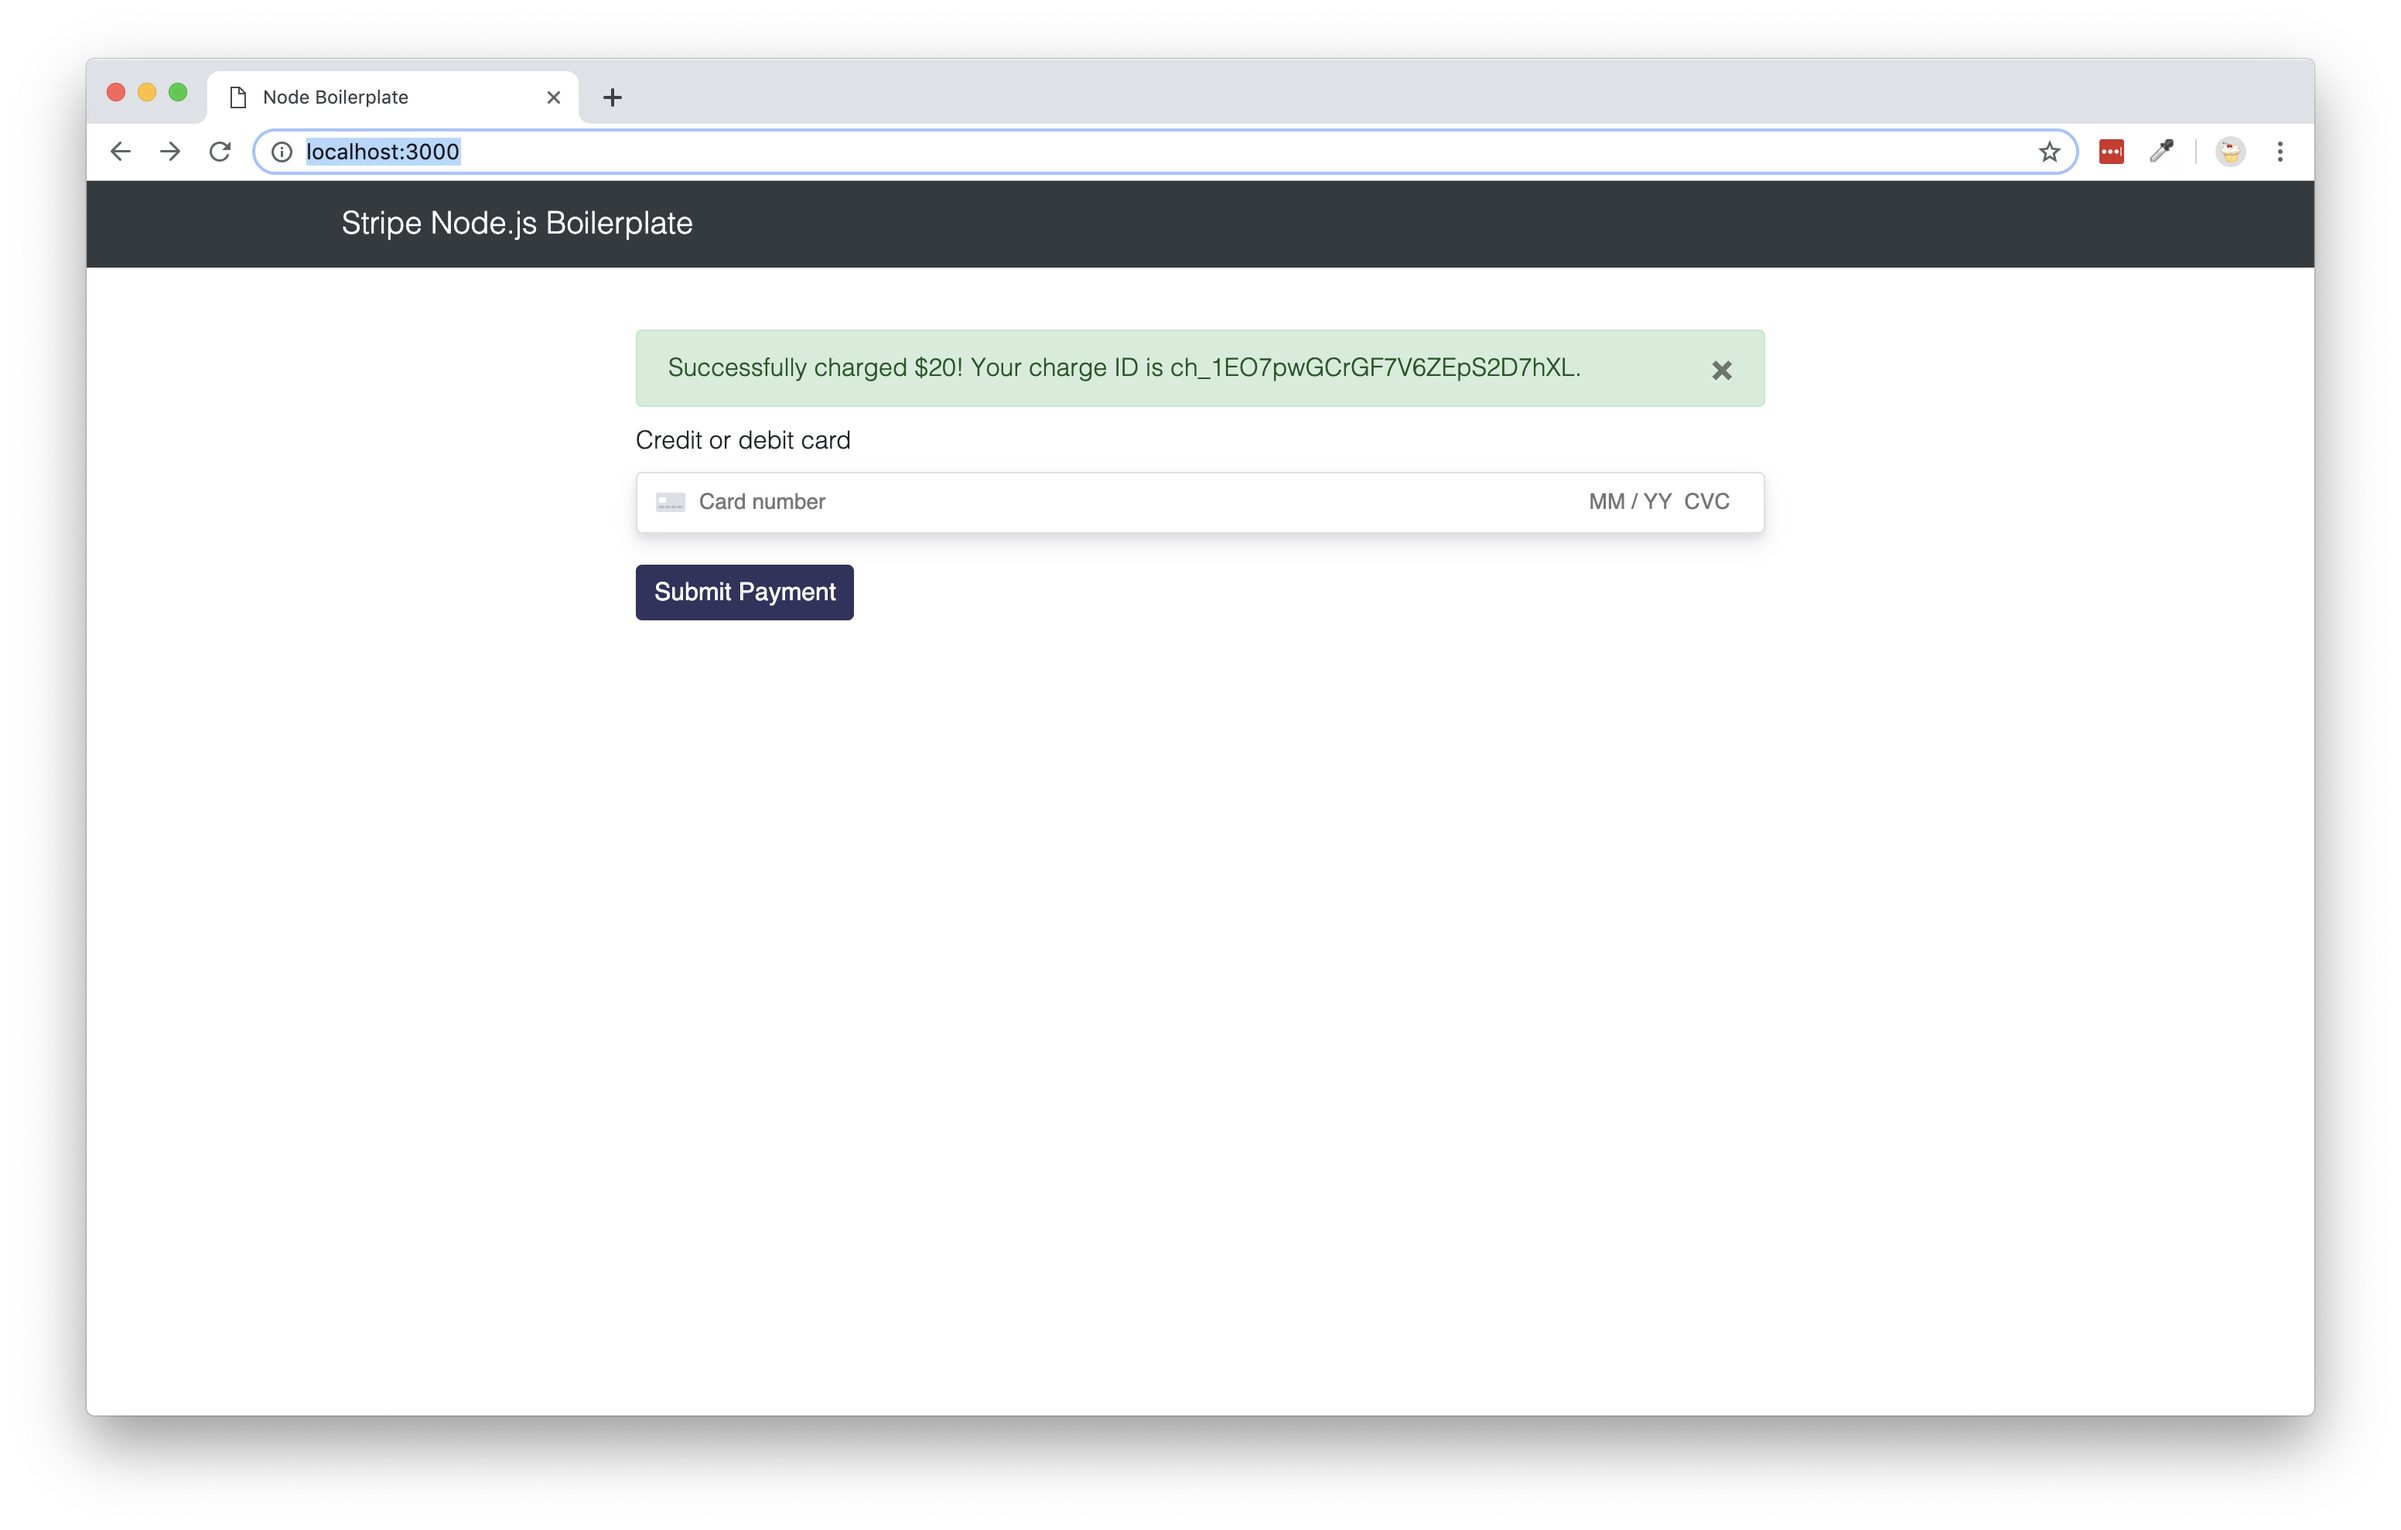
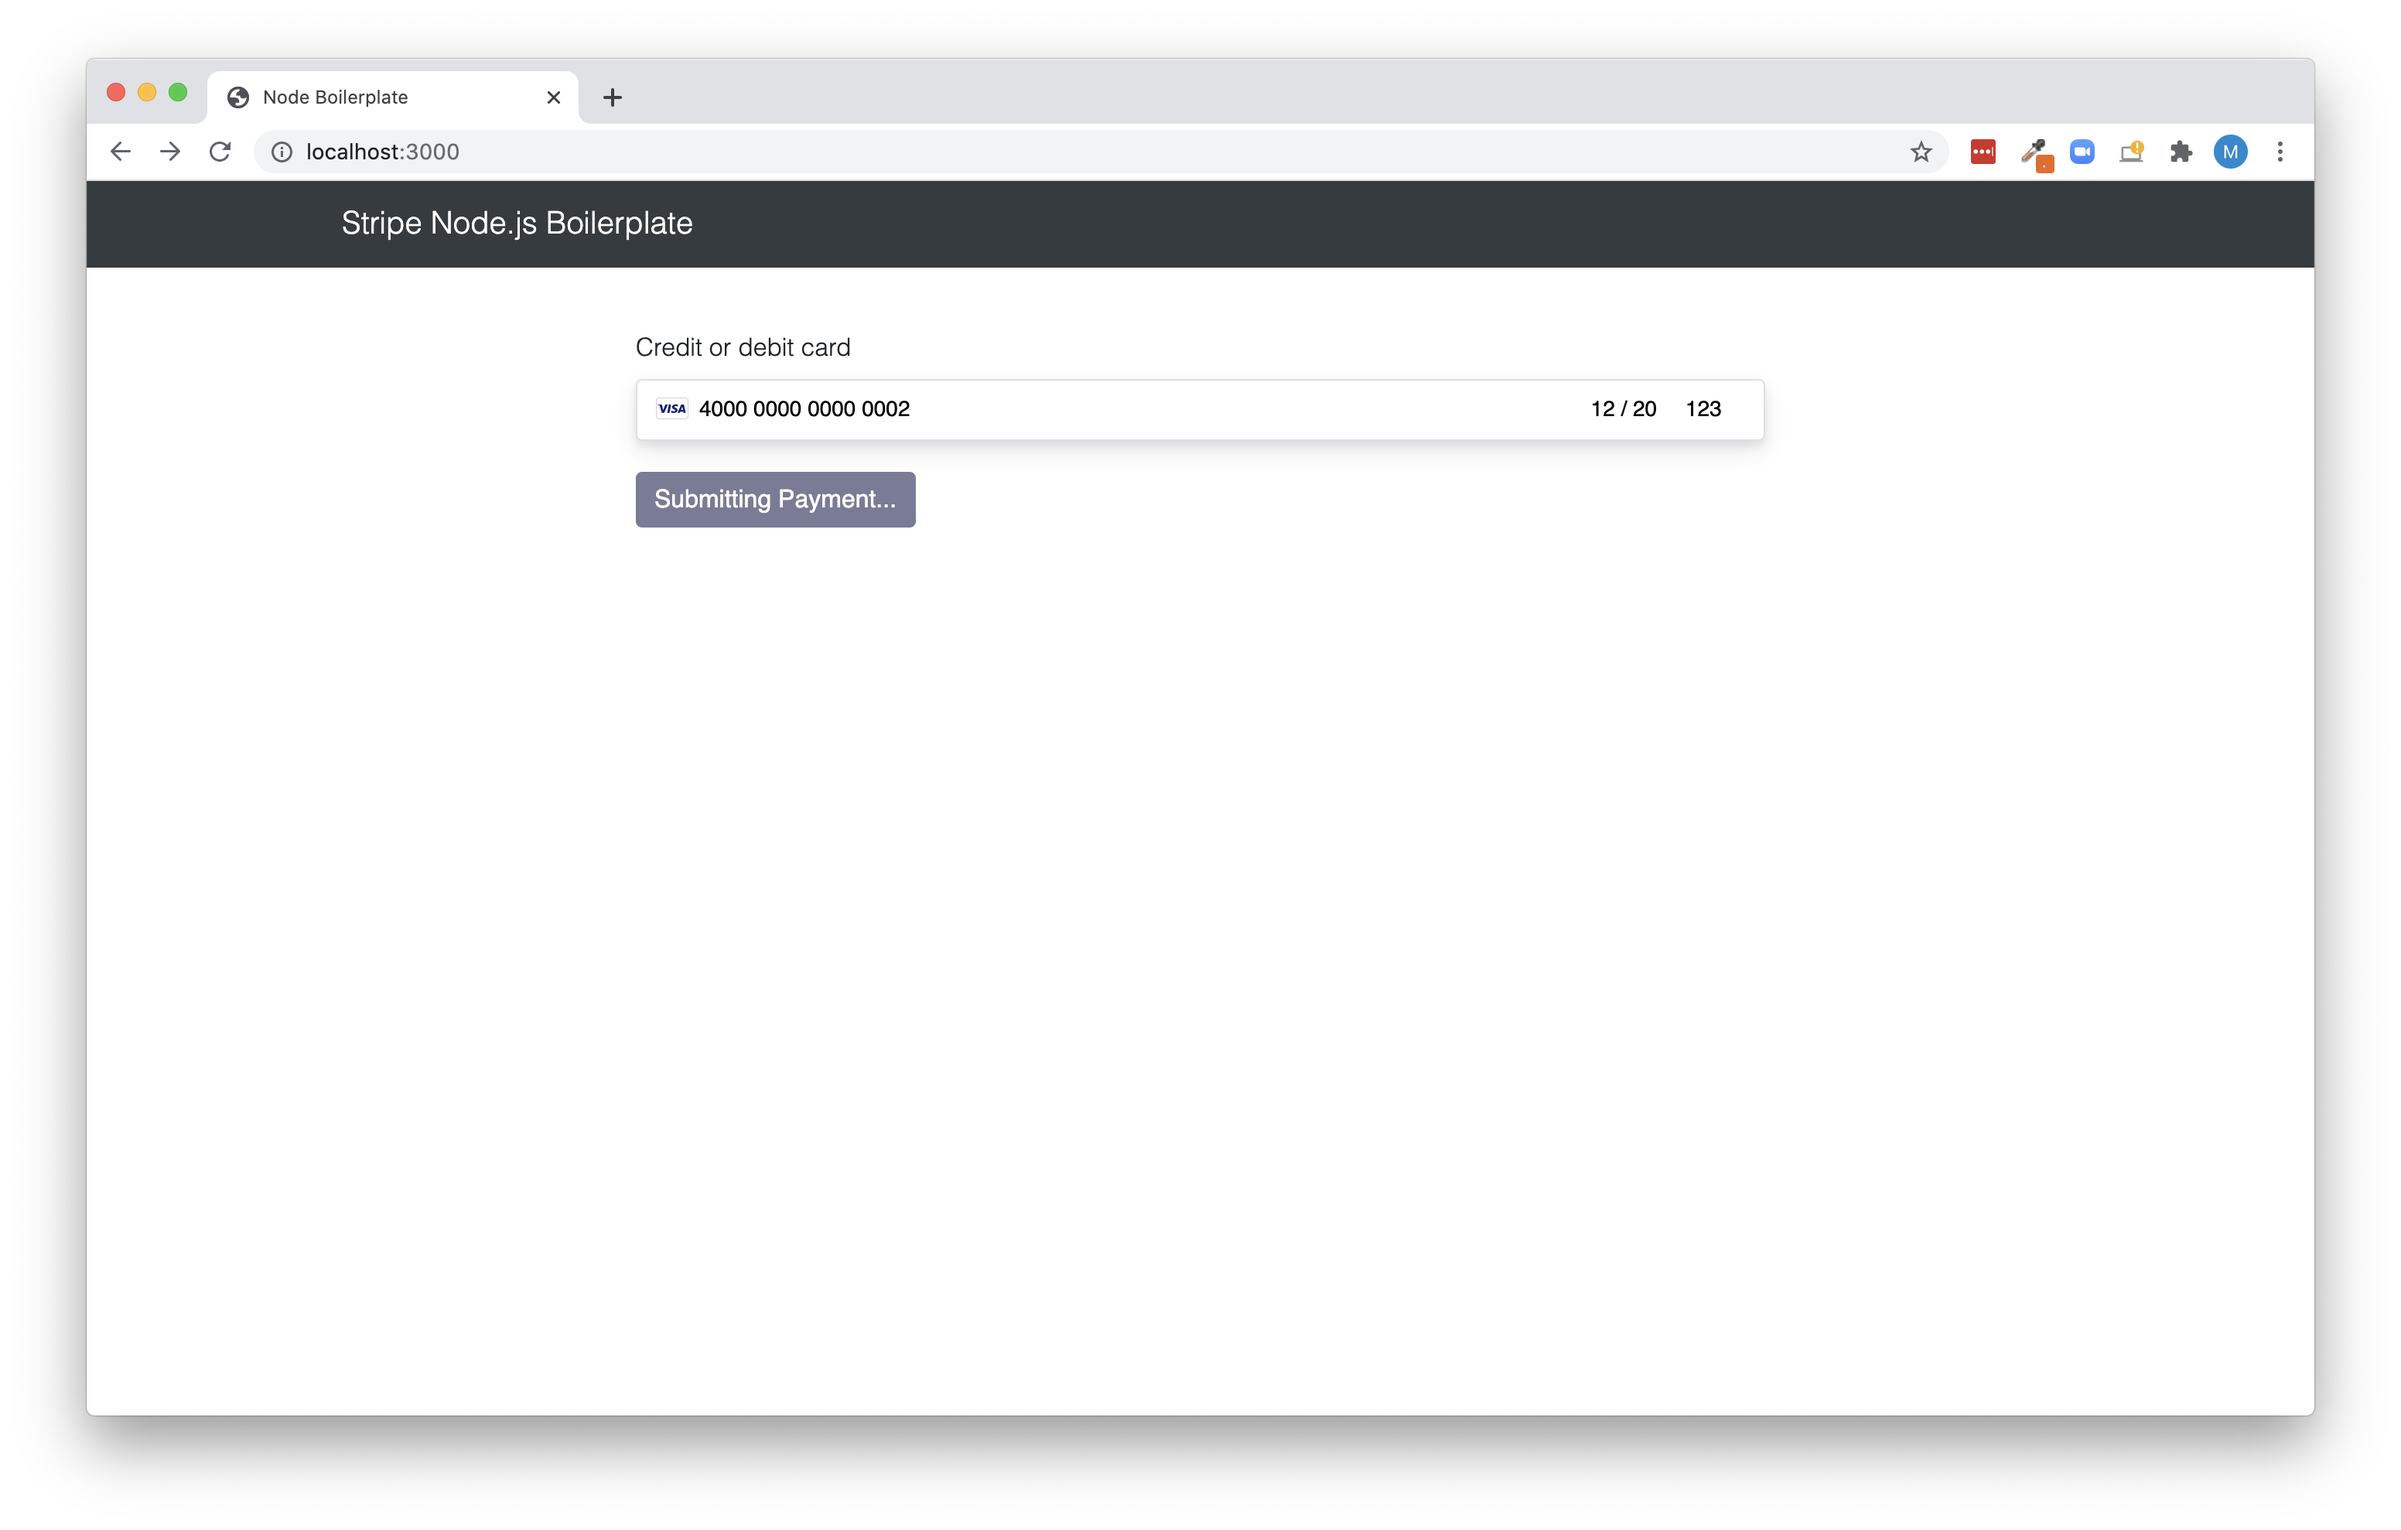
updated packages, migrated from Charges to PaymentIntents

Changed region(s): [[0.25, 0.2159, 0.75, 0.4317], [0.7812, 0.0925, 0.9375, 0.1234], [0.125, 0.0617, 0.2188, 0.1234]]

diff --git a/public/css/app.css b/public/css/app.css
@@ -34,6 +34,10 @@ body {
   margin-left: 10px
 }
 
+.hidden {
+  display: none;
+}
+
 .btn.btn-primary {
   background: #32325d;
   color: #fff;
@@ -77,19 +81,4 @@ body {
   -moz-box-shadow: 0 7px 14px rgba(50, 50, 93, 0.10), 0 3px 6px rgba(0, 0, 0, 0.08);
   box-shadow: 0 7px 14px rgba(50, 50, 93, 0.10), 0 3px 6px rgba(0, 0, 0, 0.08);
   transition: all 300ms ease;
-}
-.shadow-lg {
-  -webkit-box-shadow: 0 15px 35px rgba(50, 50, 93, 0.1), 0 5px 15px rgba(0, 0, 0, 0.07);
-  -moz-box-shadow: 0 15px 35px rgba(50, 50, 93, 0.1), 0 5px 15px rgba(0, 0, 0, 0.07);
-  box-shadow: 0 15px 35px rgba(50, 50, 93, 0.1), 0 5px 15px rgba(0, 0, 0, 0.07);
-}
-.shadow-md {
-  -webkit-box-shadow: 0 7px 14px rgba(50, 50, 93, 0.10), 0 3px 6px rgba(0, 0, 0, 0.08);
-  -moz-box-shadow: 0 7px 14px rgba(50, 50, 93, 0.10), 0 3px 6px rgba(0, 0, 0, 0.08);
-  box-shadow: 0 7px 14px rgba(50, 50, 93, 0.10), 0 3px 6px rgba(0, 0, 0, 0.08);
-}
-.shadow-sm {
-  -webkit-box-shadow: 0 4px 6px rgba(50, 50, 93, 0.11), 0 1px 3px rgba(0, 0, 0, 0.08);
-  -moz-box-shadow: 0 4px 6px rgba(50, 50, 93, 0.11), 0 1px 3px rgba(0, 0, 0, 0.08);
-  box-shadow: 0 4px 6px rgba(50, 50, 93, 0.11), 0 1px 3px rgba(0, 0, 0, 0.08);
 }

diff --git a/app.js b/app.js
@@ -2,7 +2,6 @@ const express = require('express');
 const path = require('path');
 const exphbs = require('express-handlebars')
 const hbs = require('hbs')
-const flash = require('connect-flash');
 require('dotenv').config();
 require('express-async-errors');
 
@@ -23,13 +22,12 @@ hbs.registerPartials(__dirname + '/views/partials');
 app.use(require('cookie-parser')());
 app.use(require('body-parser').urlencoded({ extended: true }));
 app.use(require('express-session')({ secret: 'unique-secret', resave: false, saveUninitialized: false }));
-app.use(flash());
 app.use(express.static(path.join(__dirname, 'public')));
 
-// include flash messages and Stripe publishable key in session
+// include Stripe publishable key in session
 app.use(function(req, res, next) {
-  res.locals.message = req.flash('success');
   res.locals.STRIPE_PUBLISHABLE_KEY = process.env.STRIPE_PUBLISHABLE_KEY
+  res.locals.layout = false;
   next();
 });
 

diff --git a/controllers/index.js b/controllers/index.js
@@ -6,27 +6,17 @@ const router = express.Router();
 const stripe = require('stripe')(process.env.STRIPE_SECRET_KEY);
 
 /**
- * Base route
+ * Base route, create PaymentIntent
  */
-router.get('/', function(req, res) {
-  res.render('pages/index');
-});
-
-/**
- * Create a charge
- */
-router.post('/charge', async function(req, res) {
-  const token = req.body.stripeToken;
-
-  const charge = await stripe.charges.create({
+router.get('/', async function(req, res) {
+  const paymentIntent = await stripe.paymentIntents.create({
     amount: 2000,
-    currency: "usd",
-    source: token, // obtained with Stripe.js
-    description: "Sample charge"
+    currency: "usd"
   });
-
-  req.flash('success', `Successfully charged $${charge.amount / 100}! Your charge ID is ${charge.id}.`)
-  res.redirect('/')
+  
+  res.render('pages/index', {
+    clientSecret: paymentIntent.client_secret
+  });
 });
 
 module.exports = router;
